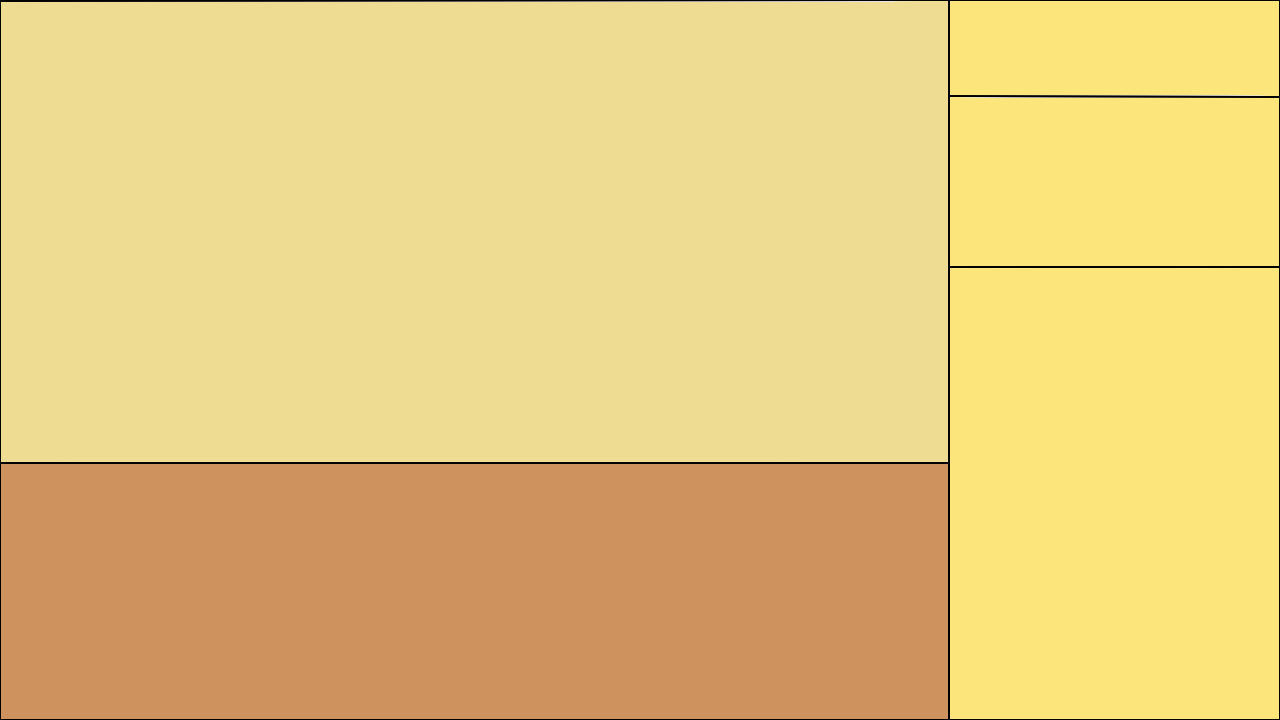
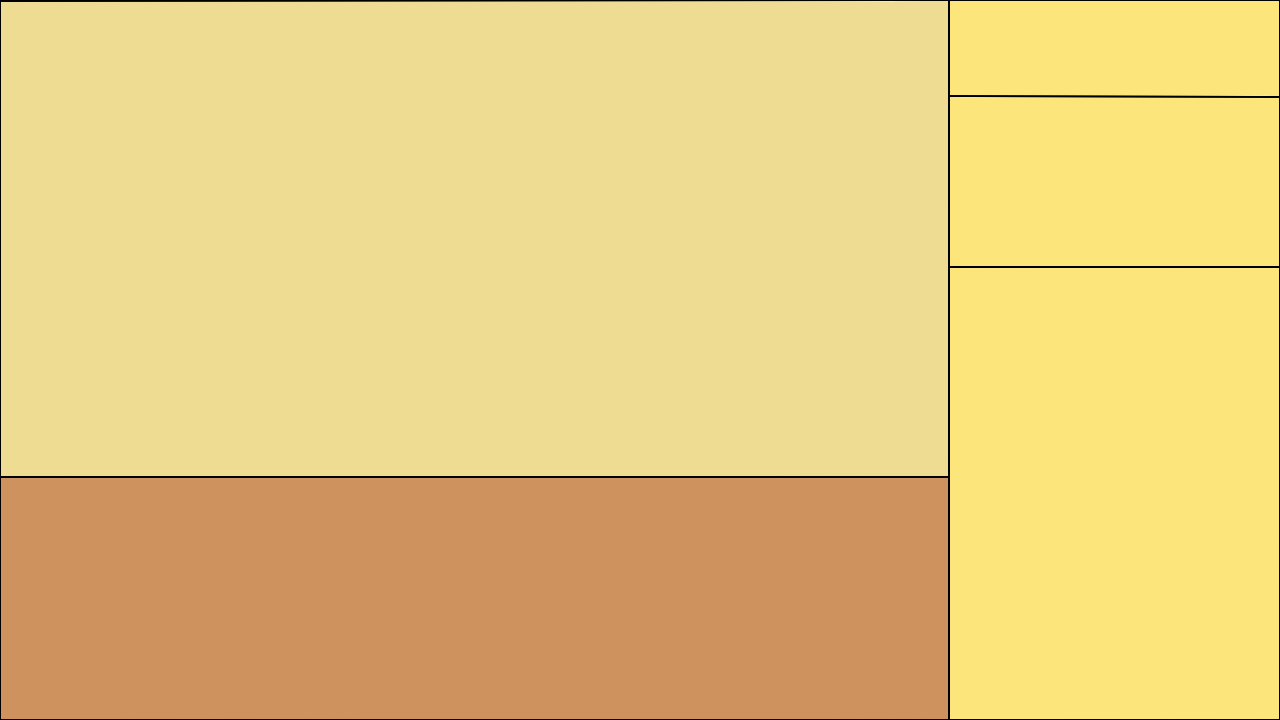
Número de cartas, fuente, distribución y paneles corregidos

Changed region(s): [[0.0, 0.6417, 0.75, 0.6722]]

diff --git a/Game/Game/src/scenes/InventoryScene.cpp b/Game/Game/src/scenes/InventoryScene.cpp
@@ -35,28 +35,27 @@ InventoryScene::InventoryScene() : GameState() {
 	background->addComponent<Transform>(Vector2D(), Vector2D(), WIN_WIDTH, WIN_HEIGHT);
 	background->addComponent<Image>(SDLApplication::getTexture("InventoryBackground"));
 
-	createPanels();
 	createMoneyInfo();
 	createObjects(); 
 	createCards();
+	createPanels();
 
-	
 	// Los simbolos
 	for (int i = 0; i < 5; i++) {
-		createSymbol(SYMBOL_POSITIONS[i], SYMBOLS_KEYS[i], STATS_TEXTS[i], stats[i]); // cleon llora porque esto son arrays
+		createSymbol(SYMBOL_POSITIONS[i], SYMBOLS_KEYS[i], STATS_TEXTS[i], stats[i]);
 	}
 	// Creamos el boton de salir
-	exitButton = createButton(IS_EXIT_BUTTON_POS, IS_EXITFRAME_BUTTON_POS, 
+	AnimatorInfo aI = AnimatorInfo(EXIT);
+	exitButton = addGameObject<Button>(_grp_UI,
 		[&]() {
 			int cardsInDeck = 0;
 			for (auto& crd : inventory) {
-				if (inventory[Card::getCardIDfromEnum(crd.second.card)].cuantityDeck > 0) { 
-					cardsInDeck += inventory[Card::getCardIDfromEnum(crd.second.card)].cuantityDeck; 
+				if (inventory[Card::getCardIDfromEnum(crd.second.card)].cuantityDeck > 0) {
+					cardsInDeck += inventory[Card::getCardIDfromEnum(crd.second.card)].cuantityDeck;
 				}
 			}
-			if (cardsInDeck >= 4) SDLApplication::popGameState(); 
-		}, 
-		EXIT, 1.0f, 2.0f);
+			if (cardsInDeck >= 4) SDLApplication::popGameState();
+		}, IS_EXIT_BUTTON_POS , aI);
 }
 
 void InventoryScene::createSymbol(Vector2D _pos, string key, string text, int val) {
@@ -66,42 +65,48 @@ void InventoryScene::createSymbol(Vector2D _pos, string key, string text, int va
 
 	GameObject* stat = addGameObject();
 	stat->addComponent<Transform>(_pos + STAT_OFFSET, VECTOR_ZERO, 100, 24);
-	stat->addComponent<TextComponent>(SDLApplication::getFont("ARIAL24"), text);
+	stat->addComponent<TextComponent>(SDLApplication::getFont("SILKSCREEN_REGULAR20"), text);
 
 	GameObject* value = addGameObject();
 	value->addComponent<Transform>(_pos + STAT_VALUE_OFFSET, VECTOR_ZERO, 50, 24);
-	value->addComponent<TextComponent>(SDLApplication::getFont("ARIAL24"), to_string(val));
-}
-// Crea los paneles en los que se colocan las cartas
-void InventoryScene::createPanels() {
-	createPanel(DP_POSITION, DP_WIDTH, DP_HEIGHT, DECK_PANEL);
-	createPanel(OP_POSITION, OP_WIDTH, OP_HEIGHT, OBJECTS_PANEL);
-	createPanel(IP_POSITION, IP_WIDTH, IP_HEIGHT, INVENTORY_PANEL);
-	createPanel(SP_POSITION, SP_WIDTH, SP_HEIGHT, STATS_PANEL);
+	value->addComponent<TextComponent>(SDLApplication::getFont("SILKSCREEN_REGULAR20"), to_string(val));
 }
 
-void InventoryScene::createPanel(Vector2D pos, int w, int h, string textureKey) {
+// Crea los paneles en los que se colocan las cartas
+void InventoryScene::createPanels() {
+	deckPanel = createPanel(DP_POSITION, DP_WIDTH, PANEL_HEIGHT, DECK_PANEL);
+	createPanel(OP_POSITION, OP_WIDTH, PANEL_HEIGHT, OBJECTS_PANEL);
+	inventoryPanel = createPanel(IP_POSITION, IP_WIDTH, PANEL_HEIGHT, INVENTORY_PANEL);
+	createPanel(SP_POSITION, SP_WIDTH, PANEL_HEIGHT, STATS_PANEL);
+
+	deckPanel->removeComponent<Image>();
+	inventoryPanel->removeComponent<Image>();
+}
+
+GameObject* InventoryScene::createPanel(Vector2D pos, int w, int h, string textureKey) {
 	GameObject* panel = addGameObject();
 	panel->addComponent<Transform>(pos, VECTOR_ZERO, w, h);
 	panel->addComponent<Image>(SDLApplication::getTexture(textureKey));
+
+	return panel;
 }
 
 void InventoryScene::createMoneyInfo() {
 	//Icono de moneda
 	GameObject* coin = addGameObject();
-	coin->addComponent<Transform>(COIN_OFFSET, Vector2D(), 64, 64);
+	Vector2D pos = Vector2D(WIN_WIDTH - 100, 15);
+	coin->addComponent<Transform>(pos, Vector2D(), 64, 64);
 	coin->addComponent<Image>(SDLApplication::getTexture("Coin"));
 
-	// Texto
-	GameObject* text = addGameObject();
-	text->addComponent<Transform>(MONEY_TEXT, VECTOR_ZERO, 70, 48);
-	text->addComponent<TextComponent>(SDLApplication::getFont("ARIAL48"), "Dinero");
-
 	// Texto con el numero de monedas
-	GameObject* mon = addGameObject();
-	mon->addComponent<Transform>(MONEY_VALUE, VECTOR_ZERO, 50, 48);
 	int m = PlayerData::instance()->getMoney();
-	mon->addComponent<TextComponent>(SDLApplication::getFont("ARIAL48"), to_string(m));
+	GameObject* mon = addGameObject();
+	if (m / 100 == 0) {
+		if (m / 10 == 0) mon->addComponent<Transform>(Vector2D(WIN_WIDTH - 220, 15), VECTOR_ZERO, 50, 48);
+		else mon->addComponent<Transform>(Vector2D(WIN_WIDTH - 245, 15), VECTOR_ZERO, 50, 48);
+	}
+	else mon->addComponent<Transform>(Vector2D(WIN_WIDTH - 270, 15), VECTOR_ZERO, 50, 48);
+	mon->addComponent<TextComponent>(SDLApplication::getFont("SILKSCREEN_BOLD46"), to_string(m));
 }
 
 void InventoryScene::createObjects() {
@@ -115,6 +120,7 @@ void InventoryScene::createObjects() {
 		++i;
 	}
 }
+
 // Se encarga de crear las imagenes de las cartas en el inventario con sus cantidades
 void InventoryScene::createCards() {
 	bool row = true;
@@ -122,7 +128,7 @@ void InventoryScene::createCards() {
 	int deckColumn = 0;
 
 	for (auto& crd : inventory) {
-		Vector2D pos = Vector2D(20 + (ALB_CARD_W + 20) * column, 20 + (ALB_CARD_H + 20) * (row ? 0 : 1));
+		Vector2D pos = Vector2D(20 + (ALB_CARD_W + 20) * column, 10 + (ALB_CARD_H + 20) * (row ? 0 : 1));
 		Button* cardButton = createCard(pos, crd.second.card, false);
 		if (column == 0 && !row) cardButton->setAsDefaultButton();
 
@@ -139,7 +145,7 @@ void InventoryScene::createCards() {
 }
 // Se encarga de crear las imagenes de las cartas en la zona del deck
 void InventoryScene::createDeckCards(CardId crd, int column) {
-	Vector2D posD = Vector2D(20 + 160 * column, DECK_HEIGHT);
+	Vector2D posD = Vector2D(20 + 160 * column, DECK_HEIGHT - 30);
 	createCard(posD, crd, true);
 }
 // Se encarga de crear el objeto de la carta, así como sus botones y le añaden la funcionalidad para quitar o poner en el deck
@@ -187,14 +193,19 @@ Button* InventoryScene::createCard(Vector2D pos, CardId crd, bool dck) {
 	a->play(ONOUT);
 
 	// Texto que indica cuantas cartas hay en el deck
+	GameObject* textFrame = addGameObject();
 	GameObject* text = addGameObject();
 	InventoryInfo& invCard = inventory.find(Card::getCardIDfromEnum(crd))->second;
-	text->addComponent<Transform>(Vector2D (pos.getX()+ ALB_CARD_W,pos.getY()), VECTOR_ZERO, 70, 48);
-	(dck ? invCard.myDeckText : invCard.myText) = text->addComponent<TextComponent>(SDLApplication::getFont("ARIAL16"),  to_string(dck ? invCard.cuantityDeck : invCard.cuantity - invCard.cuantityDeck) + "/" + to_string(invCard.cuantity));
+	Transform* tr = text->addComponent<Transform>(Vector2D (pos.getX() + ALB_CARD_W - 20, pos.getY()), VECTOR_ZERO, 70, 48);
+	(dck ? invCard.myDeckText : invCard.myText) = text->addComponent<TextComponent>(SDLApplication::getFont("SILKSCREEN_REGULAR16"),  to_string(dck ? invCard.cuantityDeck : invCard.cuantity - invCard.cuantityDeck) + "/" + to_string(invCard.cuantity));
+	textFrame->addComponent<Transform>(tr->getPos() - Vector2D(3, 7), VECTOR_ZERO, tr->getWidth() + 5, tr->getWidth() + 5);
+	textFrame->addComponent<Image>(SDLApplication::getTexture("CardCircle"));
+
 	if (dck) {
 		deckButtons[crd].deckButton = b;
 		deckButtons[crd].deckImage = cardObj;
 		deckButtons[crd].deckText = text;
+		deckButtons[crd].deckTextFrame = textFrame;
 	}
 
 	return b;
@@ -225,6 +236,7 @@ void InventoryScene::reloadDeckCards() {
 		obj.second.deckButton->setAlive(false);
 		obj.second.deckImage->setAlive(false);
 		obj.second.deckText->setAlive(false);
+		obj.second.deckTextFrame->setAlive(false);
 	}
 	int column = 0;
 	for (auto& crd : inventory) {
@@ -232,5 +244,29 @@ void InventoryScene::reloadDeckCards() {
 			createDeckCards(crd.second.card, column);
 			column++;
 		}
+	}
+}
+
+void InventoryScene::update() {
+	GameState::update();
+
+	int x; int y;
+	SDL_GetMouseState(&x, &y);
+
+	if (x >= 0 && x <= 942 && y >= 0 && y <= 461) {
+		if (!inventoryPanel->hasComponent<Image>()) {
+			inventoryPanel->addComponent<Image>(SDLApplication::getTexture("InventoryPanel"));
+			deckPanel->removeComponent<Image>();
+		}
+	}
+	else if (x >= 0 && x <= 942 && y > 461 && y <= 720) {
+		if (!deckPanel->hasComponent<Image>()) {
+			deckPanel->addComponent<Image>(SDLApplication::getTexture("DeckPanel"));
+			inventoryPanel->removeComponent<Image>();
+		}
+	}
+	else {
+		if (inventoryPanel->hasComponent<Image>()) inventoryPanel->removeComponent<Image>();
+		if (deckPanel->hasComponent<Image>()) deckPanel->removeComponent<Image>();
 	}
 }

diff --git a/Game/Game/src/data/constants.h b/Game/Game/src/data/constants.h
@@ -296,8 +296,7 @@ const int IS_BUTTON_WIDTH = BUTTON_SPRITE_WIDTH * 2;
 const int IS_BUTTON_HEIGHT = BUTTON_SPRITE_HEIGHT * 2;
 const int IS_BUTTONFRAME_WIDTH = BUTTON_FRAME_SPRITE_WIDTH * 2;
 const int IS_BUTTONFRAME_HEIGHT = BUTTON_FRAME_SPRITE_HEIGTH * 2;
-const Vector2D IS_EXIT_BUTTON_POS = Vector2D(1115 - IS_BUTTON_WIDTH/2, 670);
-const Vector2D IS_EXITFRAME_BUTTON_POS = IS_EXIT_BUTTON_POS - Vector2D(24, 44);
+const Vector2D IS_EXIT_BUTTON_POS = Vector2D(WIN_WIDTH - IS_BUTTON_WIDTH * 3 / 2 - 45, WIN_HEIGHT - IS_BUTTON_HEIGHT * 3 / 2 - 5);
 const Vector2D COIN_OFFSET = Vector2D(WIN_WIDTH * 5 / 6 - 96, 10);
 const Vector2D MONEY_TEXT = COIN_OFFSET + Vector2D(80, 8);
 const Vector2D MONEY_VALUE = MONEY_TEXT + Vector2D(160, 0);
@@ -319,7 +318,7 @@ const Vector2D SYMBOL_POSITIONS[5] = {
 };
 
 const Vector2D STAT_OFFSET = Vector2D(74, 20);
-const Vector2D STAT_VALUE_OFFSET = Vector2D(190, 20);
+const Vector2D STAT_VALUE_OFFSET = Vector2D(210, 20);
 
 const string CARD_CIRCLE = "CardCircle";
 const int CARD_CIRCLE_RADIOUS = 20;
@@ -333,24 +332,22 @@ const int CARD_RECTANGLE_WIDTH = 34;
 const int CARD_RECTANGLE_HEIGHT = 14;
 const Vector2D CARD_RECTANGLE_OFFSET = Vector2D(44, -7);
 
+const int PANEL_HEIGHT = 30;
+
 const string DECK_PANEL = "DeckPanel";
-const int DP_WIDTH = 90;
-const int DP_HEIGHT = 45;
-const Vector2D DP_POSITION = Vector2D(474 - DP_WIDTH/2, 465);
+const int DP_WIDTH = 74;
+const Vector2D DP_POSITION = Vector2D(0, 476);
 
 const string OBJECTS_PANEL = "ObjectsPanel";
 const int OP_WIDTH = 125;
-const int OP_HEIGHT = 30;
 const Vector2D OP_POSITION = Vector2D(1116 - OP_WIDTH/2, 99);
 
 const string INVENTORY_PANEL = "InventoryPanel";
 const int IP_WIDTH = 175;
-const int IP_HEIGHT = 30;
-const Vector2D IP_POSITION = Vector2D(474 - IP_WIDTH / 2, 0);
+const Vector2D IP_POSITION = Vector2D(0, 0);
 
 const string STATS_PANEL = "StatsPanel";
 const int SP_WIDTH = 210;
-const int SP_HEIGHT = 30;
 const Vector2D SP_POSITION = Vector2D(1116 - SP_WIDTH / 2, 269);
 
 const int ALB_CARD_W = 58 * PIXEL_WIDTH;
@@ -370,12 +367,12 @@ const int DECK_HEIGHT = 520;
 // INVENTORY : OBJECTS
 const int OBJECTS_DIMENSIONS = 64;
 const Vector2D OBJECTS_POSITIONS[6] = {
-	Vector2D(960, 132),
-	Vector2D(1034, 132),
-	Vector2D(1108, 132),
-	Vector2D(960, 199),
-	Vector2D(1034, 199),
-	Vector2D(1108, 199)
+	Vector2D(1010, 132),
+	Vector2D(1090, 132),
+	Vector2D(1170, 132),
+	Vector2D(1010, 199),
+	Vector2D(1090, 199),
+	Vector2D(1170, 199),
 };
 
 // BUTTON KEYS

diff --git a/Game/Game/src/scenes/InventoryScene.h b/Game/Game/src/scenes/InventoryScene.h
@@ -21,6 +21,7 @@ struct InventoryCard
 	GameObject* deckButton;
 	GameObject* deckImage;
 	GameObject* deckText;
+	GameObject* deckTextFrame;
 };
 
 class InventoryScene : public GameState {
@@ -29,14 +30,20 @@ private:
 	std::map<CardId, InventoryCard> deckButtons;
 	vector<int> stats;
 
+	GameObject* inventoryPanel;
+	GameObject* deckPanel;
+
 	Button* exitButton;
 public:
 	InventoryScene();
 	virtual ~InventoryScene();
+
+	virtual void update();
+
 	void handleInput() override;
 	void createSymbol(Vector2D _pos, string key, string text, int val);
 	void createPanels();
-	void createPanel(Vector2D pos, int w, int h, string textureKey);
+	GameObject* createPanel(Vector2D pos, int w, int h, string textureKey);
 	void createMoneyInfo();
 	void createObjects();
 	void createCards();
